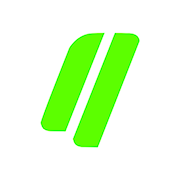
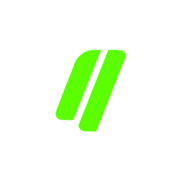
commit
commit changes 18.06.24

Changed region(s): [[0.2222, 0.1667, 0.7778, 0.8333]]

diff --git a/contact/index.html b/contact/index.html
@@ -53,7 +53,7 @@
       <header class="fixed" id="header">
         <div class="wrapper clearfix">
           <div class="logo">
-            <a href="../../"><img alt="Logo" class="desktop" src="../modules/image/q-logo.png" width="58"> <img alt="Logo Dark" class="mobile" src="../modules/image/q-logo-drk.png" width="58"></a>
+            <a href="../../"><img alt="Logo" class="desktop" src="../modules/image/q-logo.png" width="40"> <img alt="Logo Dark" class="mobile" src="../modules/image/q-logo-drk.png" width="40"></a>
           </div>
           <nav class="main-nav">
             <div class="clearfix" style="margin-left: 2em">

diff --git a/company/index.html b/company/index.html
@@ -53,7 +53,7 @@
       <header class="fixed" id="header">
         <div class="wrapper clearfix">
           <div class="logo">
-            <a href="../"><img alt="Logo" class="desktop" src="../modules/image/q-logo.png" width="58"> <img alt="Logo Dark" class="mobile" src="../modules/image/q-logo-drk.png" width="58"></a>
+            <a href="../"><img alt="Logo" class="desktop" src="../modules/image/q-logo.png" width="40"> <img alt="Logo Dark" class="mobile" src="../modules/image/q-logo-drk.png" width="40"></a>
           </div>
           <nav class="main-nav">
             <div class="clearfix" style="margin-left: 2em">

diff --git a/platform/index.html b/platform/index.html
@@ -52,7 +52,7 @@
       <header class="fixed" id="header">
         <div class="wrapper clearfix">
           <div class="logo">
-            <a href="../"><img alt="Logo" class="desktop" src="../modules/image/q-logo.png" width="58"> <img alt="Logo Dark" class="mobile" src="../modules/image/q-logo-drk.png" width="58"></a>
+            <a href="../"><img alt="Logo" class="desktop" src="../modules/image/q-logo.png" width="40"> <img alt="Logo Dark" class="mobile" src="../modules/image/q-logo-drk.png" width="40"></a>
           </div>
           <nav class="main-nav">
             <div class="clearfix" style="margin-left: 2em">

diff --git a/privacy-policy/index.html b/privacy-policy/index.html
@@ -52,7 +52,7 @@
       <header class="fixed" id="header">
         <div class="wrapper clearfix">
           <div class="logo">
-            <a href="../"><img alt="Logo" class="desktop" src="../modules/image/q-logo.png" width="58"> <img alt="Logo Dark" class="mobile" src="../modules/image/q-logo-drk.png" width="58"></a>
+            <a href="../"><img alt="Logo" class="desktop" src="../modules/image/q-logo.png" width="40"> <img alt="Logo Dark" class="mobile" src="../modules/image/q-logo-drk.png" width="40"></a>
           </div>
           <nav class="main-nav">
             <div class="clearfix" style="margin-left: 2em">

diff --git a/robots/index.html b/robots/index.html
@@ -53,7 +53,7 @@
       <header class="fixed" id="header">
         <div class="wrapper clearfix">
           <div class="logo">
-            <a href="../"><img alt="Logo" class="desktop" src="../modules/image/q-logo.png" width="58"> <img alt="Logo Dark" class="mobile" src="../modules/image/q-logo-drk.png" width="58"></a>
+            <a href="../"><img alt="Logo" class="desktop" src="../modules/image/q-logo.png" width="40"> <img alt="Logo Dark" class="mobile" src="../modules/image/q-logo-drk.png" width="40"></a>
           </div>
           <nav class="main-nav">
             <div class="clearfix" style="margin-left: 2em">

diff --git a/terms-of-use/index.html b/terms-of-use/index.html
@@ -52,7 +52,7 @@
       <header class="fixed" id="header">
         <div class="wrapper clearfix">
           <div class="logo">
-            <a href="../"><img alt="Logo" class="desktop" src="../modules/image/q-logo.png" width="58"> <img alt="Logo Dark" class="mobile" src="../modules/image/q-logo-drk.png" width="58"></a>
+            <a href="../"><img alt="Logo" class="desktop" src="../modules/image/q-logo.png" width="40"> <img alt="Logo Dark" class="mobile" src="../modules/image/q-logo-drk.png" width="40"></a>
           </div>
           <nav class="main-nav">
             <div class="clearfix" style="margin-left: 2em">

diff --git a/index.html b/index.html
@@ -54,7 +54,7 @@
       <header class="fixed" id="header">
         <div class="wrapper clearfix">
           <div class="logo">
-            <a href="/"><img alt="Logo" class="desktop" src="modules/image/q-logo.png" width="58"> <img alt="Logo Dark" class="mobile" src="modules/image/q-logo-drk.png" width="58"></a>
+            <a href="/"><img alt="Logo" class="desktop" src="modules/image/q-logo.png" width="40"> <img alt="Logo Dark" class="mobile" src="modules/image/q-logo-drk.png" width="40"></a>
           </div>
           <nav class="main-nav">
             <div class="clearfix" style="margin-left: 2em">
